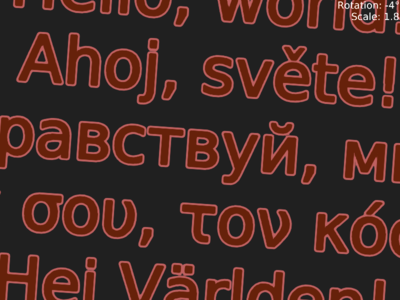
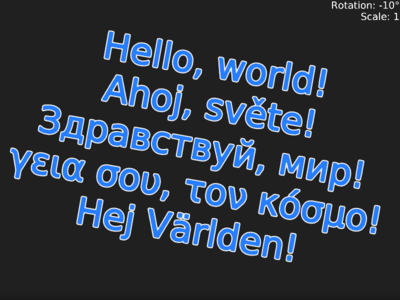
text: unified colors.

diff --git a/src/text/TextExample.cpp b/src/text/TextExample.cpp
@@ -111,8 +111,8 @@ void TextExample::drawEvent() {
     _shader.setVectorTexture(_cache.texture());
 
     _shader.setTransformationProjectionMatrix(_projection * _transformation)
-        .setColor(Color3::fromHSV(Deg(15.0f), 0.9f, 0.4f))
-        .setOutlineColor(Color3::fromHSV(Deg(0.0f), 0.5f, 0.75f))
+        .setColor(Color3::fromHSV(216.0_degf, 0.85f, 1.0f))
+        .setOutlineColor(Color3{0.95f})
         .setOutlineRange(0.45f, 0.35f)
         .setSmoothness(0.025f/ _transformation.uniformScaling());
     _text.draw(_shader);
